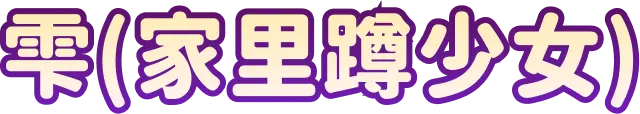
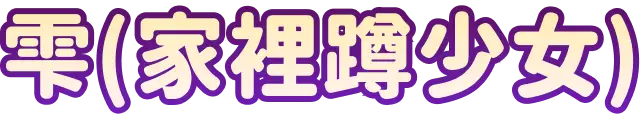
fixed:修復圖片

diff --git a/taccoo8866_tw/index.html b/taccoo8866_tw/index.html
@@ -304,7 +304,10 @@
                         <img loading="lazy" id="say_5" src="../img/say_5.webp" type="image/webp" alt="主主角台詞：お兄ちゃん！一緒にいて！">
                         <div class="content-wrapper">
                             <h3 class="visually-hidden" itemprop="name">雫<span itemprop="jobTitle" >(家裡蹲少女)</span></h3>
-                             <img loading="lazy" aria-hidden="true" id="character_name" src="../img/character_name.webp" type="image/webp" alt="雫(家裡蹲少女)">
+                            <picture>
+                                <source srcset="../img/../img/character_name.webp" media="(min-width: 1024px)" type="image/webp">
+                                <img loading="lazy" aria-hidden="true" id="character_name" src="../img/character_name_m.webp" type="image/webp" alt="雫(家裡蹲少女)">
+                             </picture>
                             <div class="gradient_Borden introduce" itemprop="description">
                                 <p>
                                     在一個寧靜的小鎮上，住著一位名叫雫的少女。她性格內向，對陌生人有些害羞，但與熟悉的人相處時卻非常真誠。雫的過去並不如意，曾經經歷過一些不幸的事件，這讓她對生活的理解變得格外稚嫩。她對於性知識幾乎一無所知，對於未來充滿了迷茫。

diff --git a/index.html b/index.html
@@ -26,7 +26,6 @@ document.getElementById("enterBtn").addEventListener("click",async  ()=>{
 
     // 驗證密碼
     let str = await sha256(input);
-    console.log(str,PASSWORD)
     if( str == PASSWORD1 || str ==PASSWORD2){
          console.log(123)
         loadSite(input);
